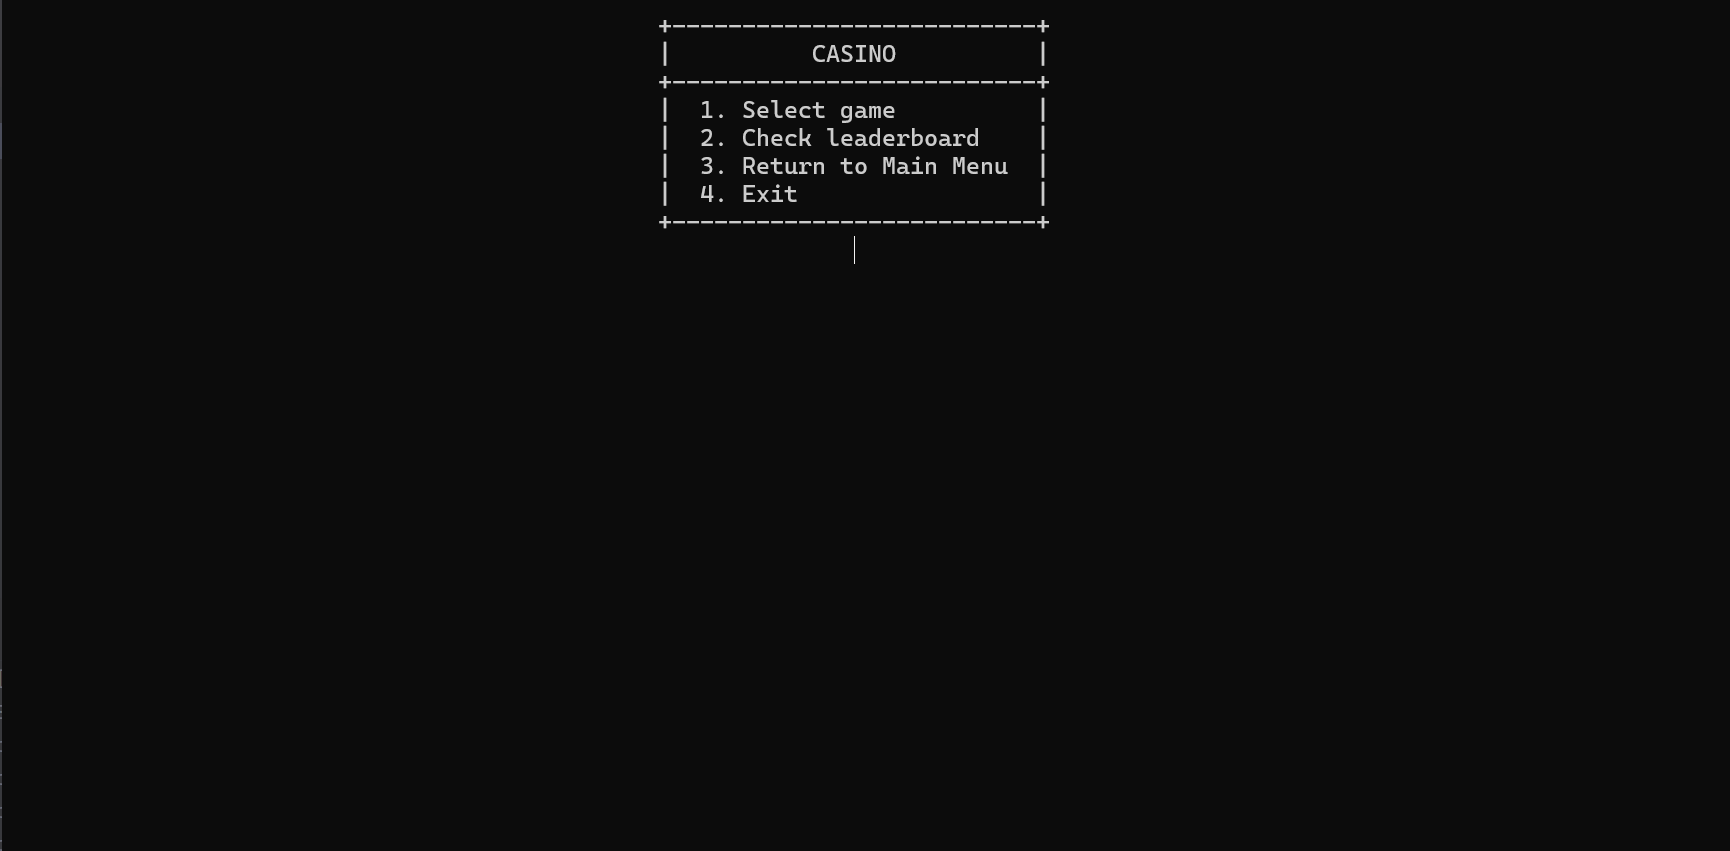
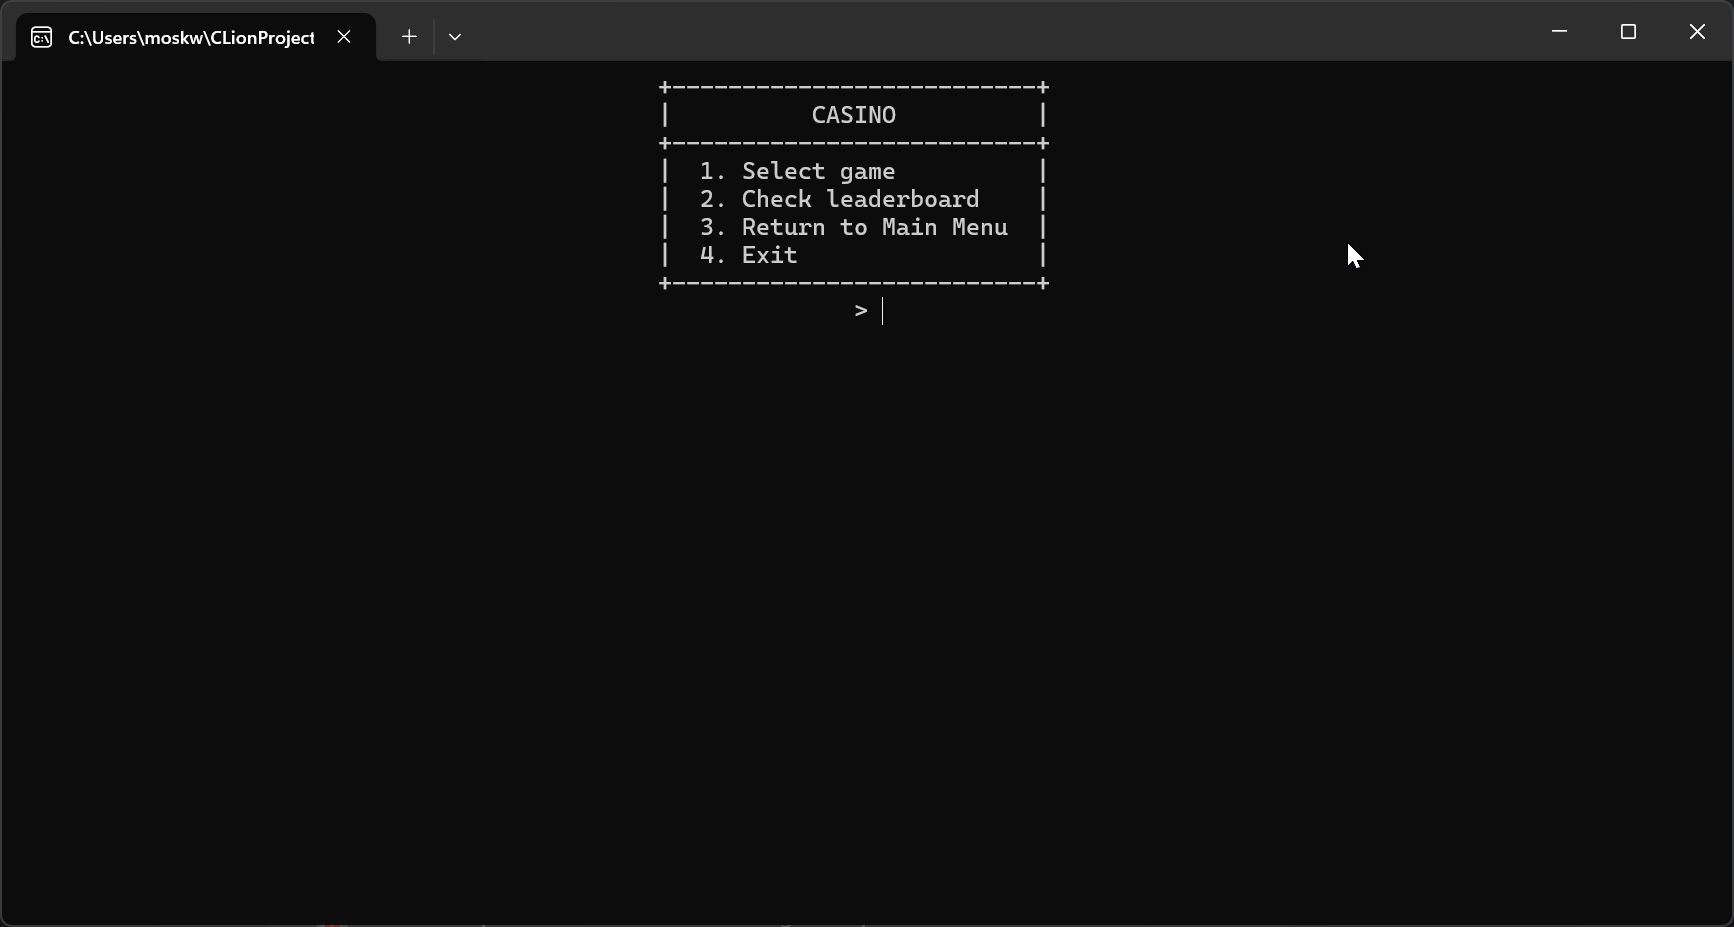
Updated readme with new screenshots and gameplay visualizing gifs

Changed region(s): [[0.0, 0.0, 1.0, 1.0]]

diff --git a/Games/SlotsGame.h b/Games/SlotsGame.h
@@ -28,7 +28,7 @@ class SlotsGame: public Game {
 private:
     /**
      * @brief Asks for bet with quick bet buttons
-     * @param maxBalance Maximum bet amount
+     * @param player Current player
      * @return int Bet amount
      */
     int askForBet(Player& player) override;

diff --git a/README.md b/README.md
@@ -13,8 +13,6 @@ The project was created in **CLion** using **CMake** and **C++20** standard.
 
 ## Showcase
 
-> Add screenshots or GIFs showcasing the project here
-
 ### Menus
 ![Main Menu](docs/images/main_menu.png)
 ![Player Creation](docs/images/player_creation.png)
@@ -24,16 +22,17 @@ The project was created in **CLion** using **CMake** and **C++20** standard.
 ![Game Selection](docs/images/game_selection_menu.png)
 
 ### Blackjack Gameplay
-![Blackjack](docs/images/blackjack_gameplay.png)
-![Blackjack](docs/images/blackjack_gameplay.gif)
+![Blackjack](docs/images/blackjack_gameplay_1.png)
+![Blackjack](docs/images/blackjack_gameplay_2.png)
+![Blackjack Gif](docs/images/blackjack_gameplay.gif)
 
 ### Roulette Wheel
 ![Roulette](docs/images/roulette_gameplay.png)
-![Roulette](docs/images/roulette_gameplay.gif)
+![Roulette Gif](docs/images/roulette_gameplay.gif)
 
 ### Slots Machine
-![Slots](docs/images/slots_gameplay.png)
-![SlotsGif](docs/images/slots_gameplay.gif)
+![Slots](docs/images/slots_gameplay_1.png)
+![Slots Gif](docs/images/slots_gameplay.gif)
 
 ## Features
 
@@ -195,7 +194,7 @@ Uses `std::mt19937_64` with seed from `std::random_device` for high-quality rand
 
 ## License
 
-MIT License
+- **[MIT License](LICENSE)**
 
 Copyright (c) 2025 Marczelloo
 
